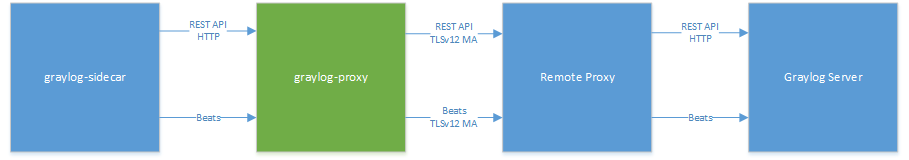
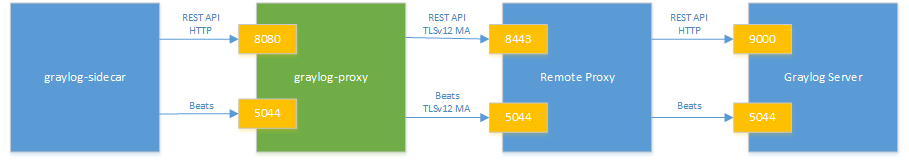
PULSSI-491 Updated image with port numbers for default setup in typical scenario.

diff --git a/README.md b/README.md
@@ -5,6 +5,8 @@ API and beats communication using client certificate.
 
 ![Graylog proxy setup](documentation/graylog-proxy-setup.png)
 
+Port numbers on picture above are for default deployment scenario.
+
 The proxy container is based on alpine version of [HAProxy docker container](https://hub.docker.com/_/haproxy/).
 
 ## Usage
